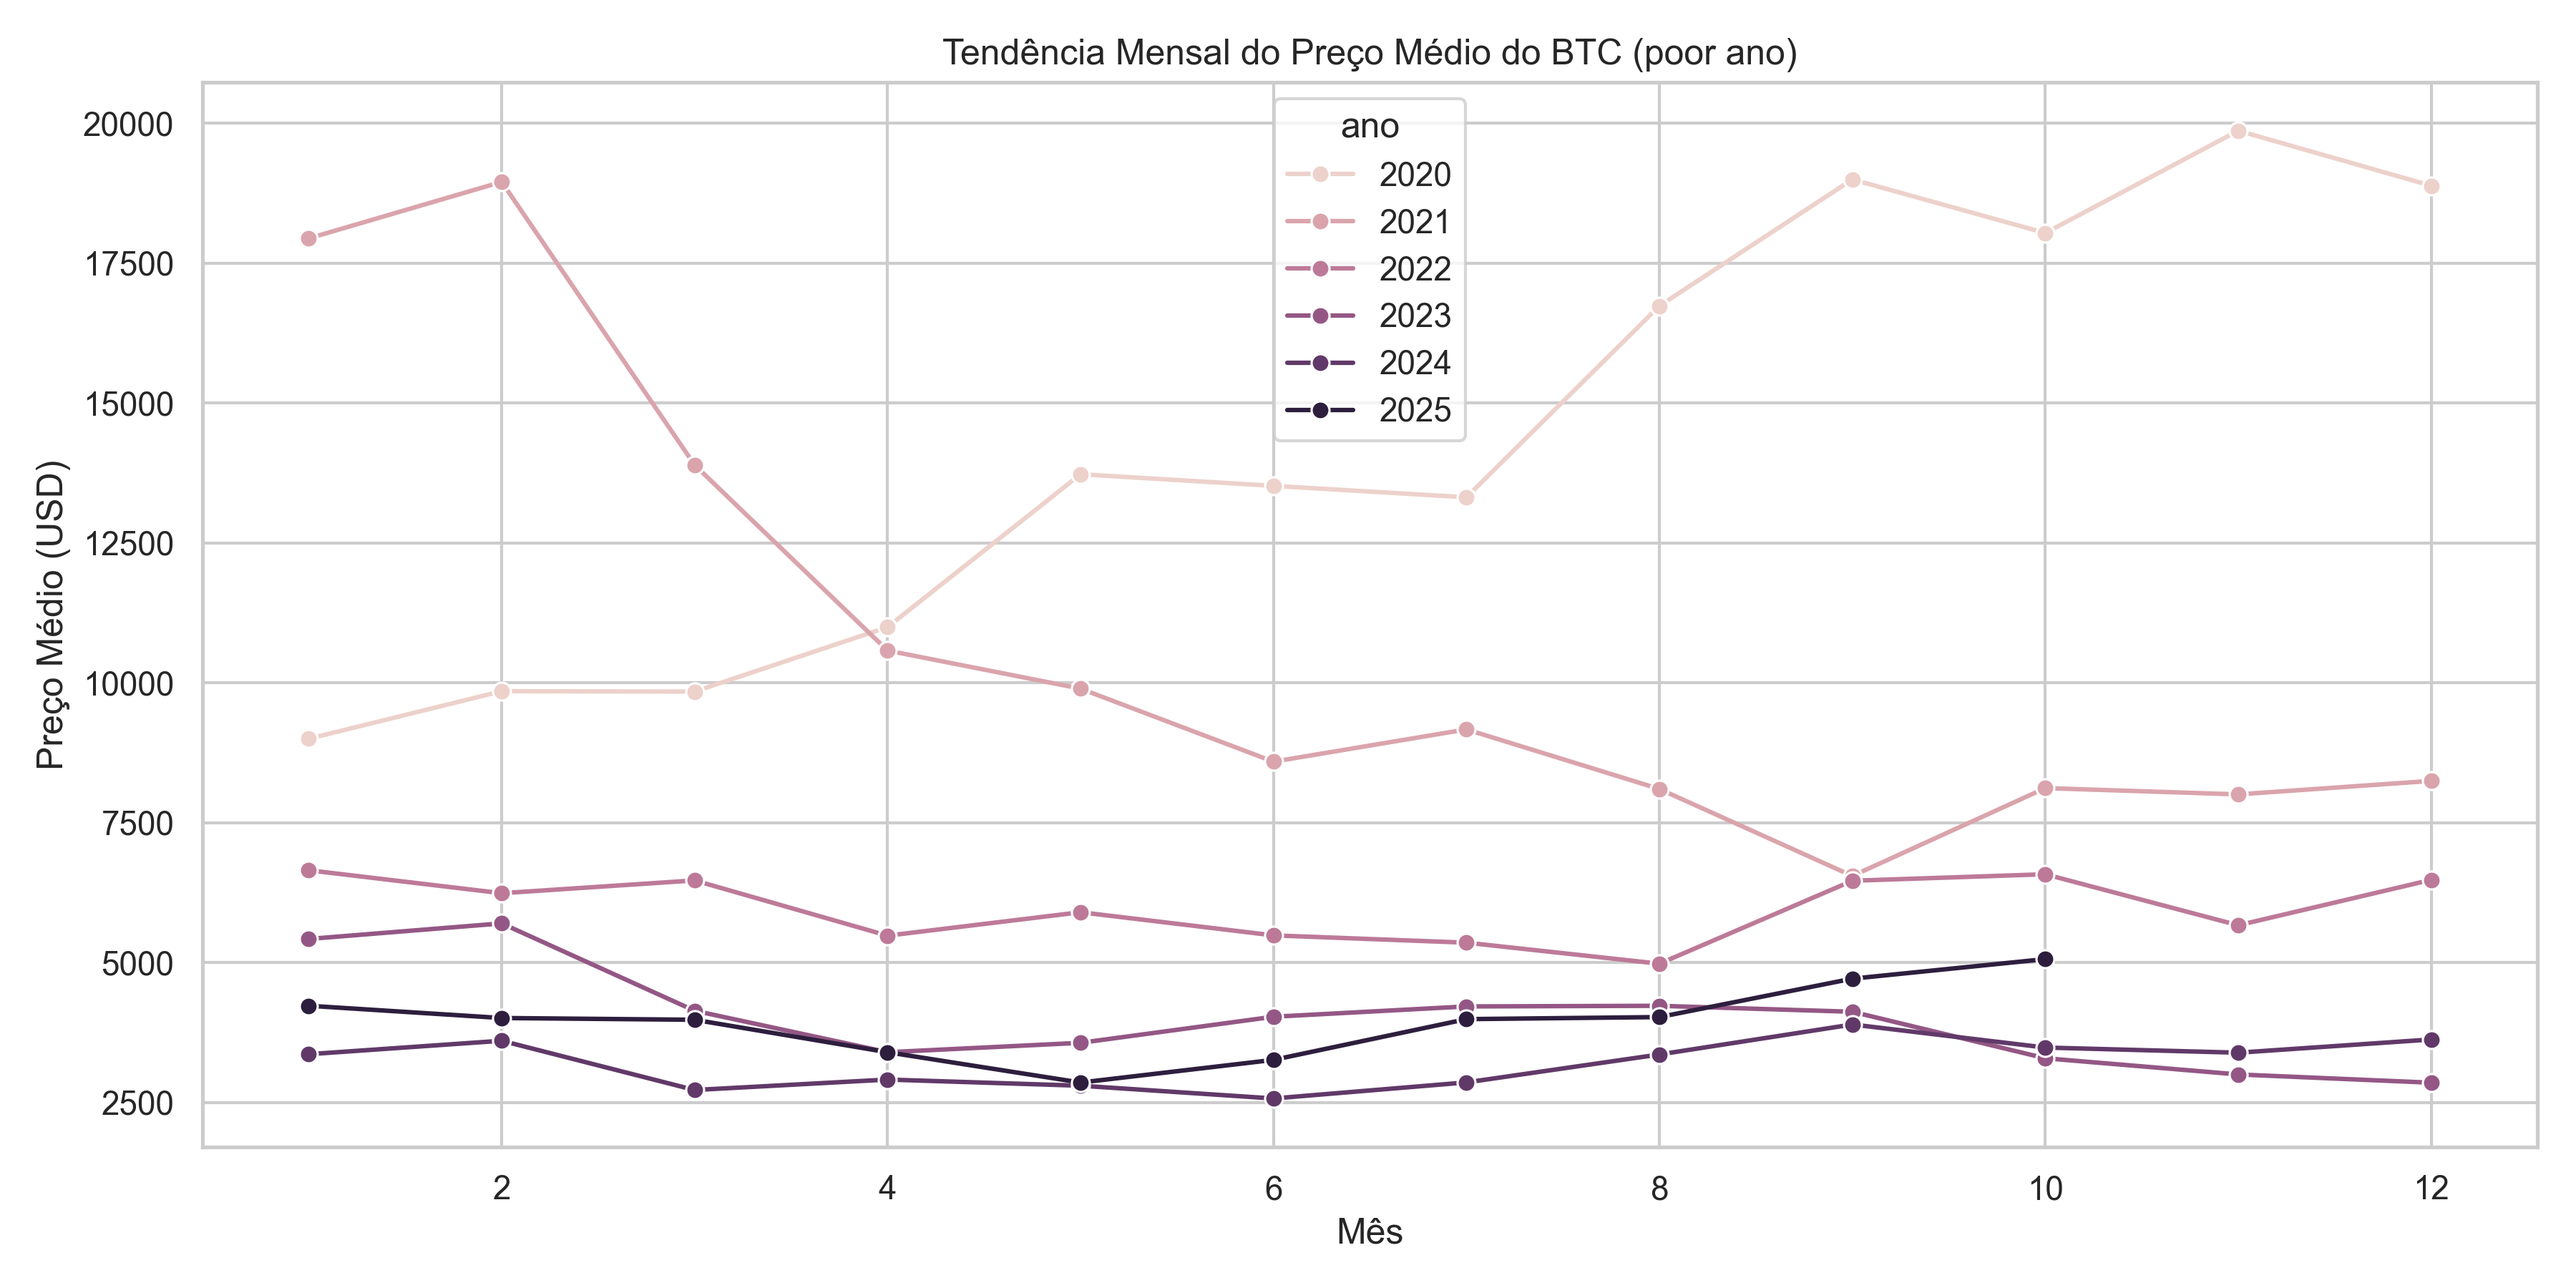
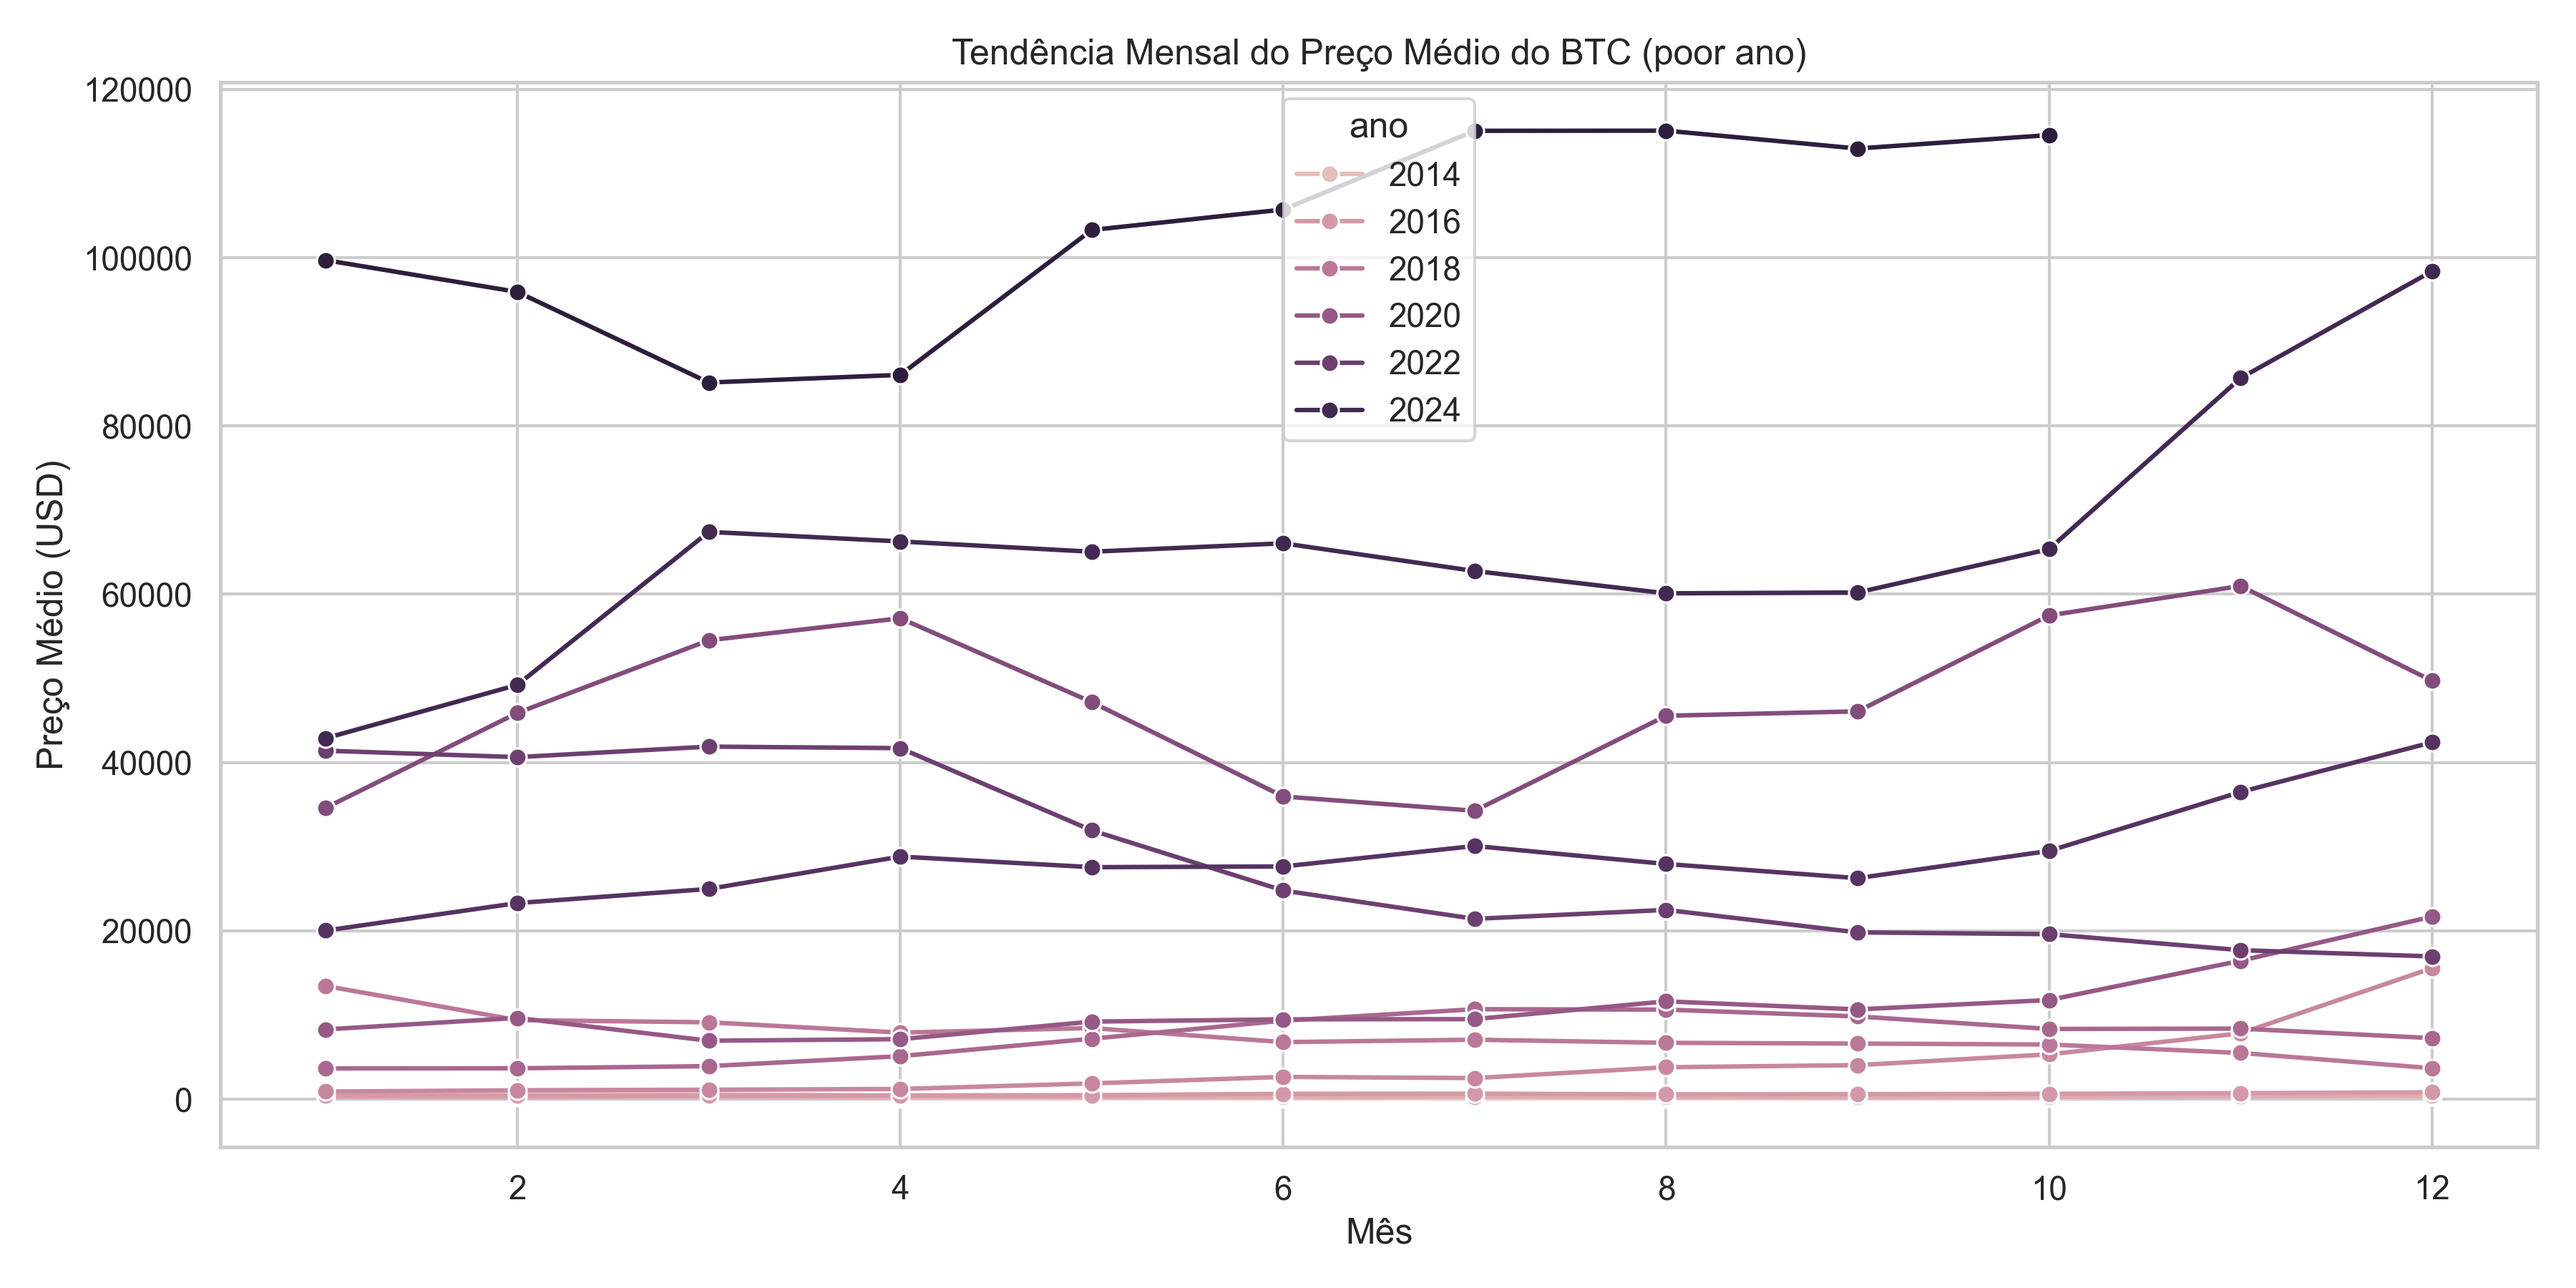
Adicionando Dataset real do BTC - Atualizando todos os codigos para receber o dataset real

diff --git a/scripts/gerar_dataset_btc_real.py b/scripts/gerar_dataset_btc_real.py
@@ -1,0 +1,35 @@
+import pandas as pd
+import os
+
+input_path = "data/btc-usd-max.csv"
+output_dir = "data/"
+os.makedirs(output_dir, exist_ok=True)
+output_path = os.path.join(output_dir, "dados_btc_mensal_real.csv")
+
+df = pd.read_csv(input_path)
+
+print("Primeiras linhas do arquivo original:")
+print(df.head())
+
+df["snapped_at"] = pd.to_datetime(df["snapped_at"], errors="coerce")
+df["price"] = pd.to_numeric(df["price"], errors="coerce")
+
+df["ano"] = df["snapped_at"].dt.year
+df["mes"] = df["snapped_at"].dt.month
+
+df_mensal = (
+    df.groupby(["ano", "mes"], as_index=False)
+    .agg({"price": "mean"})
+    .rename(columns={"price": "preco_usd"})
+)
+
+df_mensal["data"] = pd.to_datetime(df_mensal["ano"].astype(str) + "-" + df_mensal["mes"].astype(str) + "-28")
+
+df_mensal["moeda"] = "BTC"
+
+df_mensal = df_mensal[["data", "moeda", "preco_usd", "ano", "mes"]]
+
+df_mensal.to_csv(output_path, index=False)
+print(f"\n Dataset mensal real do BTC salvo em: {output_path}")
+print(df_mensal.head())
+

diff --git a/scripts/analisar_estatisticas.py b/scripts/analisar_estatisticas.py
@@ -2,9 +2,9 @@ import pandas as pd
 import numpy as np
 import os
 
-caminho_csv = "data/dados_btc_mensal.csv"
+input_path = "data/dados_btc_mensal_real.csv"
 
-df = pd.read_csv(caminho_csv, sep=";")
+df = pd.read_csv(input_path)
 df["preco_usd"] = df["preco_usd"].astype(str).str.replace(",",".").astype(float) # ajusta o separador da planilha , para .
 
 print("Colunas detectadas:", list(df.columns))

diff --git a/scripts/gerar_graficos_mensais.py b/scripts/gerar_graficos_mensais.py
@@ -14,7 +14,7 @@ df = pd.read_csv(input_path, sep=";") # indicando para seprar na ;
 print("Colunas detectadas", df.columns.tolist())
 print("\nPrimeiras Linhas:\n", df.head())
 
-df = df.sort_values(by=["ano", "mes"])   # garantindo que os meses erstão certos
+df = df.sort_values(by=["ano", "mes"])   # garantindo que os meses estão certos
 
 # Grafico 1 abaixo
 plt.figure(figsize=(12, 6))

diff --git a/main.py b/main.py
@@ -1,3 +1,5 @@
-import pandas as pd 
 
-print("Python e Pandas funcionando perfeitamente!")
+
+import pandas as pd
+df = pd.read_csv("data/dados_btc_mensal_real.csv")
+print(df.columns)

diff --git a/outputs/relatorio_2.md b/outputs/relatorio_2.md
@@ -1,10 +1,10 @@
 ----- RELATÓRIO 2 - ANALISE MENSAL BTC -----
 
 Estatísticas Gerais:
-Média Geral: 7,122.94 USD
-Desvio Padrão: 4,782.10 USD
-Maior Preço: 19,869.85 USD
-Menor Preço: 2,570.27 USD
+Média Geral: 22,890.18 USD
+Desvio Padrão: 30,086.48 USD
+Maior Preço: 115,082.60 USD
+Menor Preço: 89.98 USD
 
 Arquivos gerados
  - Gráfico de Tendência: outputs/grafico_tendencia_btc.png
